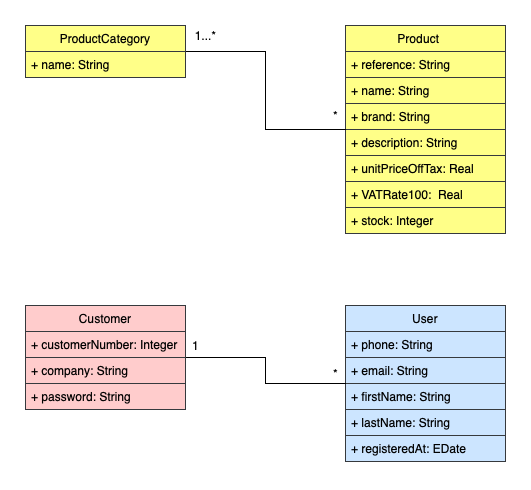
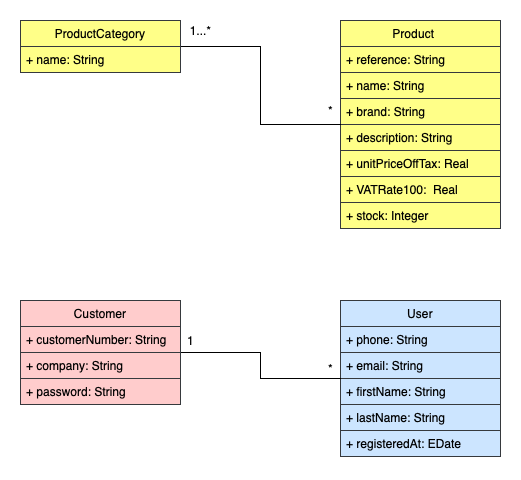
Change customer number type in classes diagram

diff --git a/src/Entity/Customer.php b/src/Entity/Customer.php
@@ -21,7 +21,7 @@ class Customer
     /**
      * @ORM\Column(type="string", length=50, unique=true, nullable=false)
      */
-    private $customerNumber; // TODO: Change type in classes diagram
+    private $customerNumber;
 
     /**
      * @ORM\Column(type="string", length=100, nullable=false)
